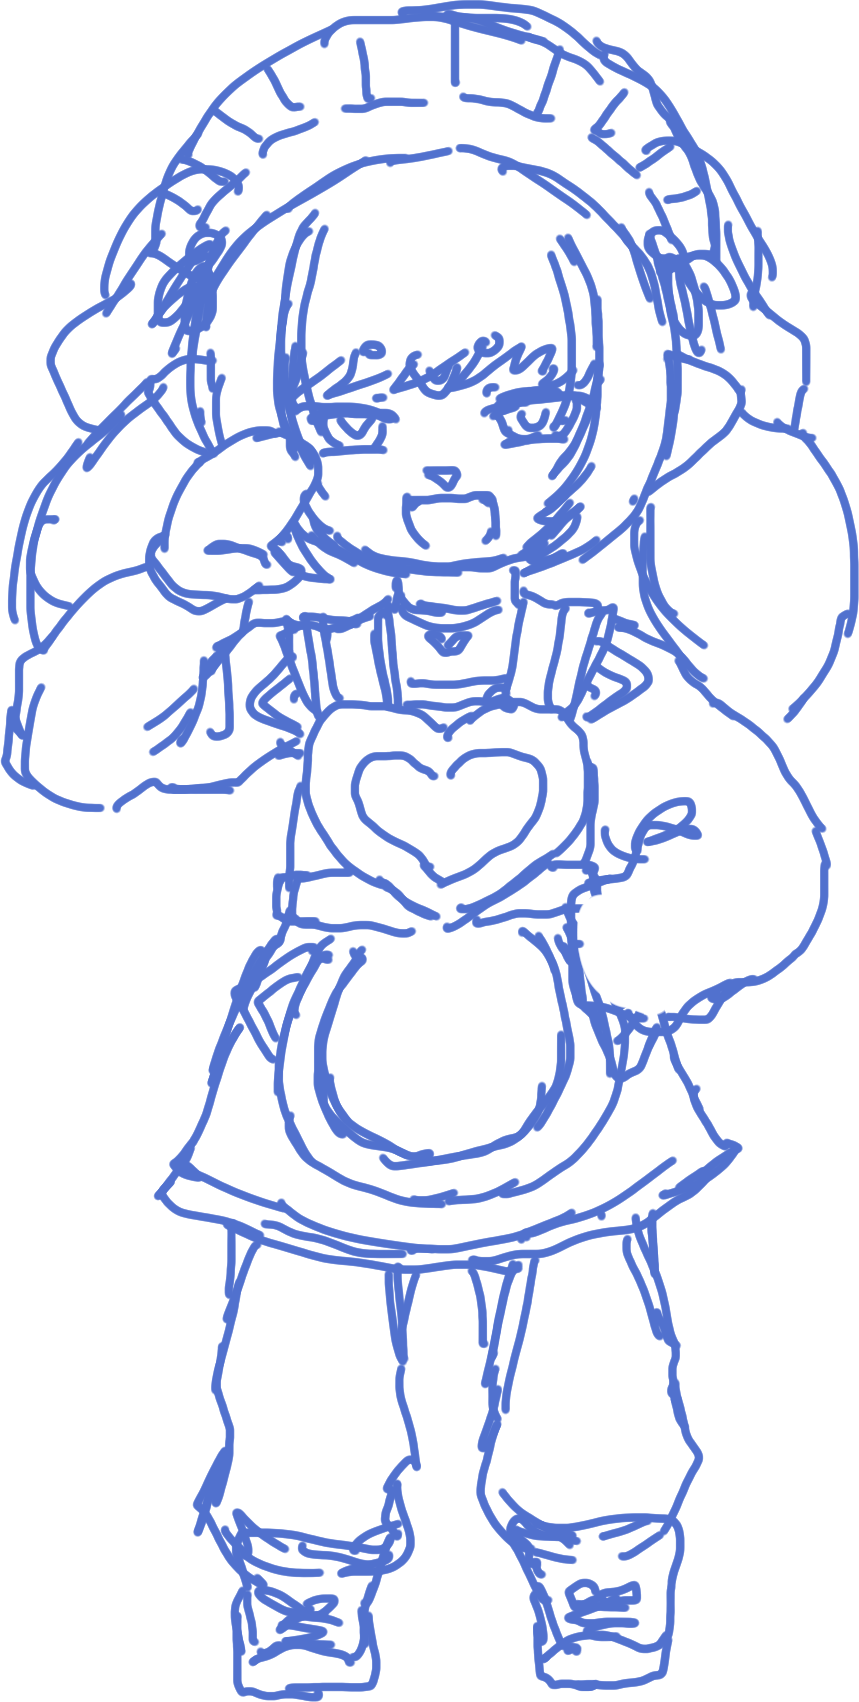
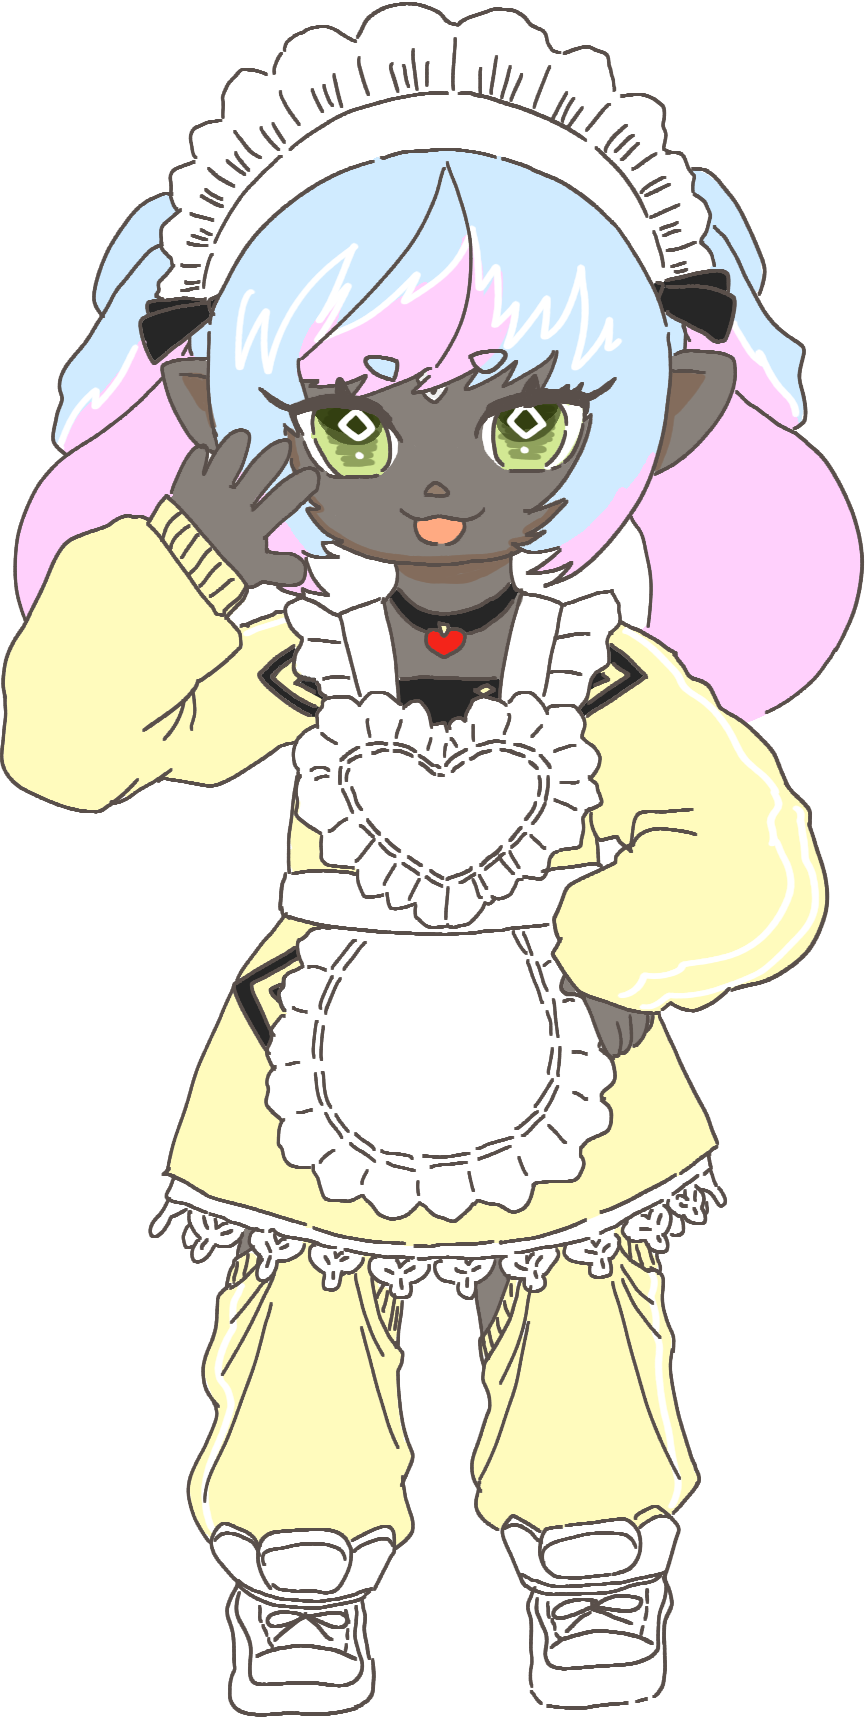
立ち絵の変更＋調整

diff --git a/home.css b/home.css
@@ -5,6 +5,7 @@ img {
 a {
     margin: 25px 0;
     display: block;
+
 }
 
 body,
@@ -24,6 +25,8 @@ button {
     border: 1px solid #6D8346;
     border-radius: 30px;
     margin-right: 5px;
+    padding: 0 25px;
+
 }
 
 .bg {
@@ -32,6 +35,12 @@ button {
     height: 100vh;
     transition: 3s;
     background-position: center;
+
+    @media screen and (min-width:915px)and (max-width:1250px) {
+        background-size: 125%;
+        background-position: bottom center;
+
+    }
 }
 
 .bg.black {
@@ -46,6 +55,13 @@ button {
     justify-content: center;
     align-items: center;
     overflow: hidden;
+}
+
+.bg.koucha,
+.bg.poteto,
+.bg.beer {
+    background-size: cover;
+    background-position: center;
 }
 
 .bg.koucha {
@@ -80,6 +96,16 @@ button {
             width: 33%;
         }
     }
+
+    figure.xiaolan {
+        img {
+            width: 255px;
+        }
+
+        @media screen and (max-width:768px) {
+            width: 42%;
+        }
+    }
 }
 
 .txtbox {
@@ -102,8 +128,4 @@ button {
 
 .txt {
     margin-top: 0;
-}
-
-button {
-    padding: 0 25px;
 }

diff --git a/index.html b/index.html
@@ -20,7 +20,7 @@
         <div class="pc">
             <figure class="rikka"><img src="img/rr.png" alt="" width="200"></figure>
             <figure class="berta"><img src="img/br.png" alt="" width="200"></figure>
-            <figure class="xiaolan"><img src="img/sr.png" alt="" width="200"></figure>
+            <figure class="xiaolan"><img src="img/sr.png" alt="" width="255"></figure>
             <div class="txtbox">
                 <p class="txt"></p>
                 <div class="btnbox"></div>
